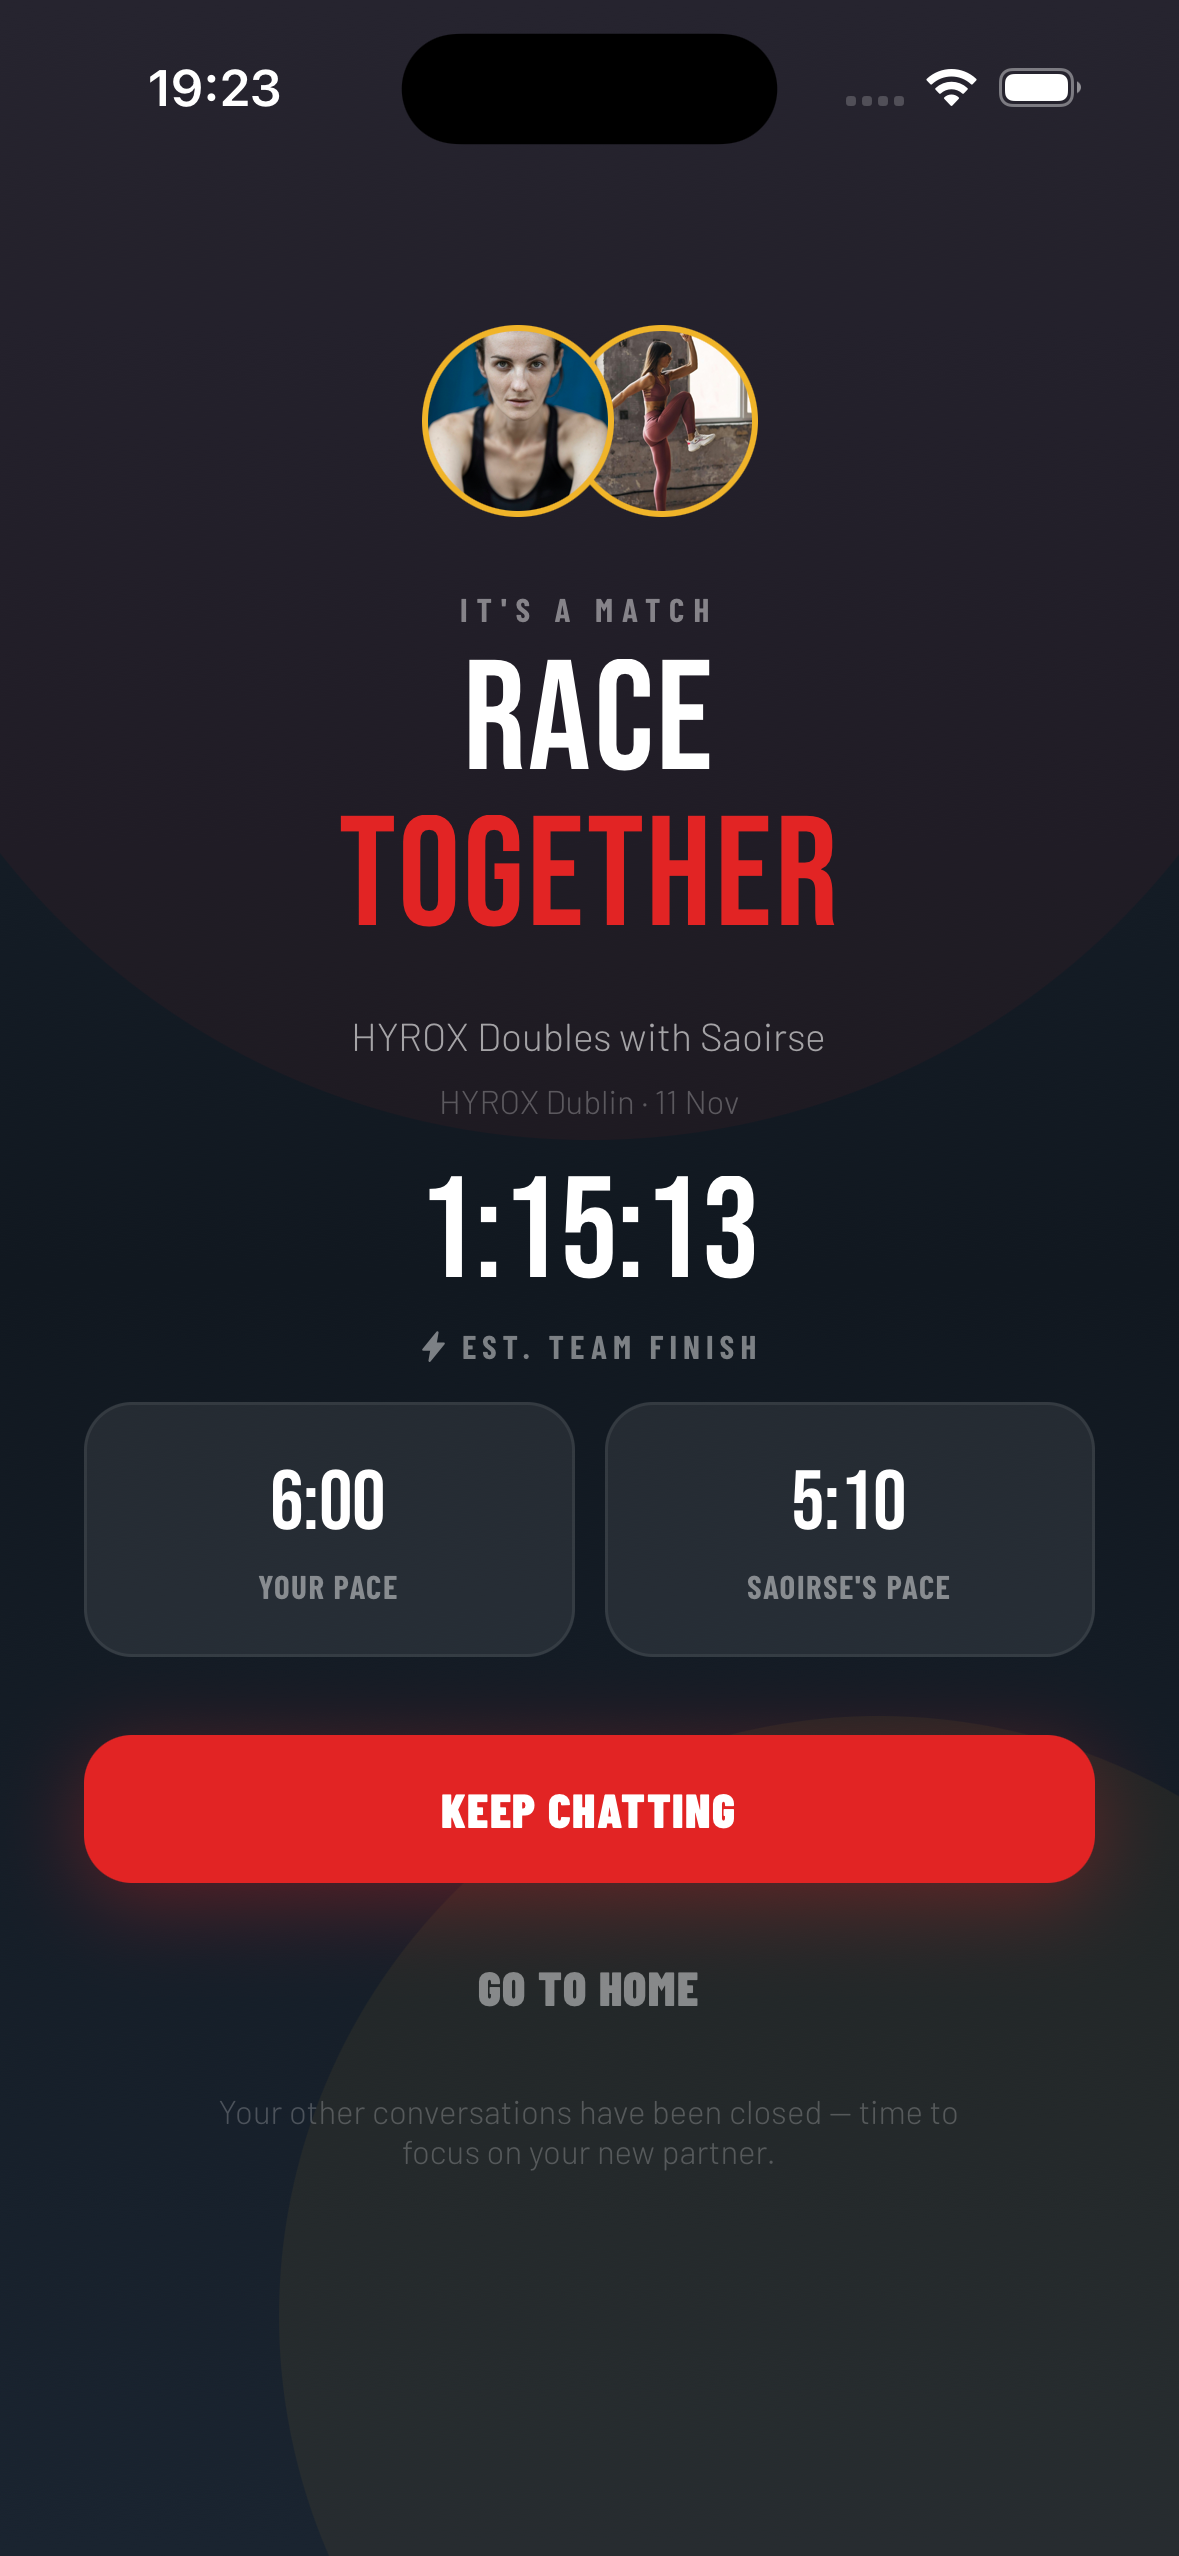
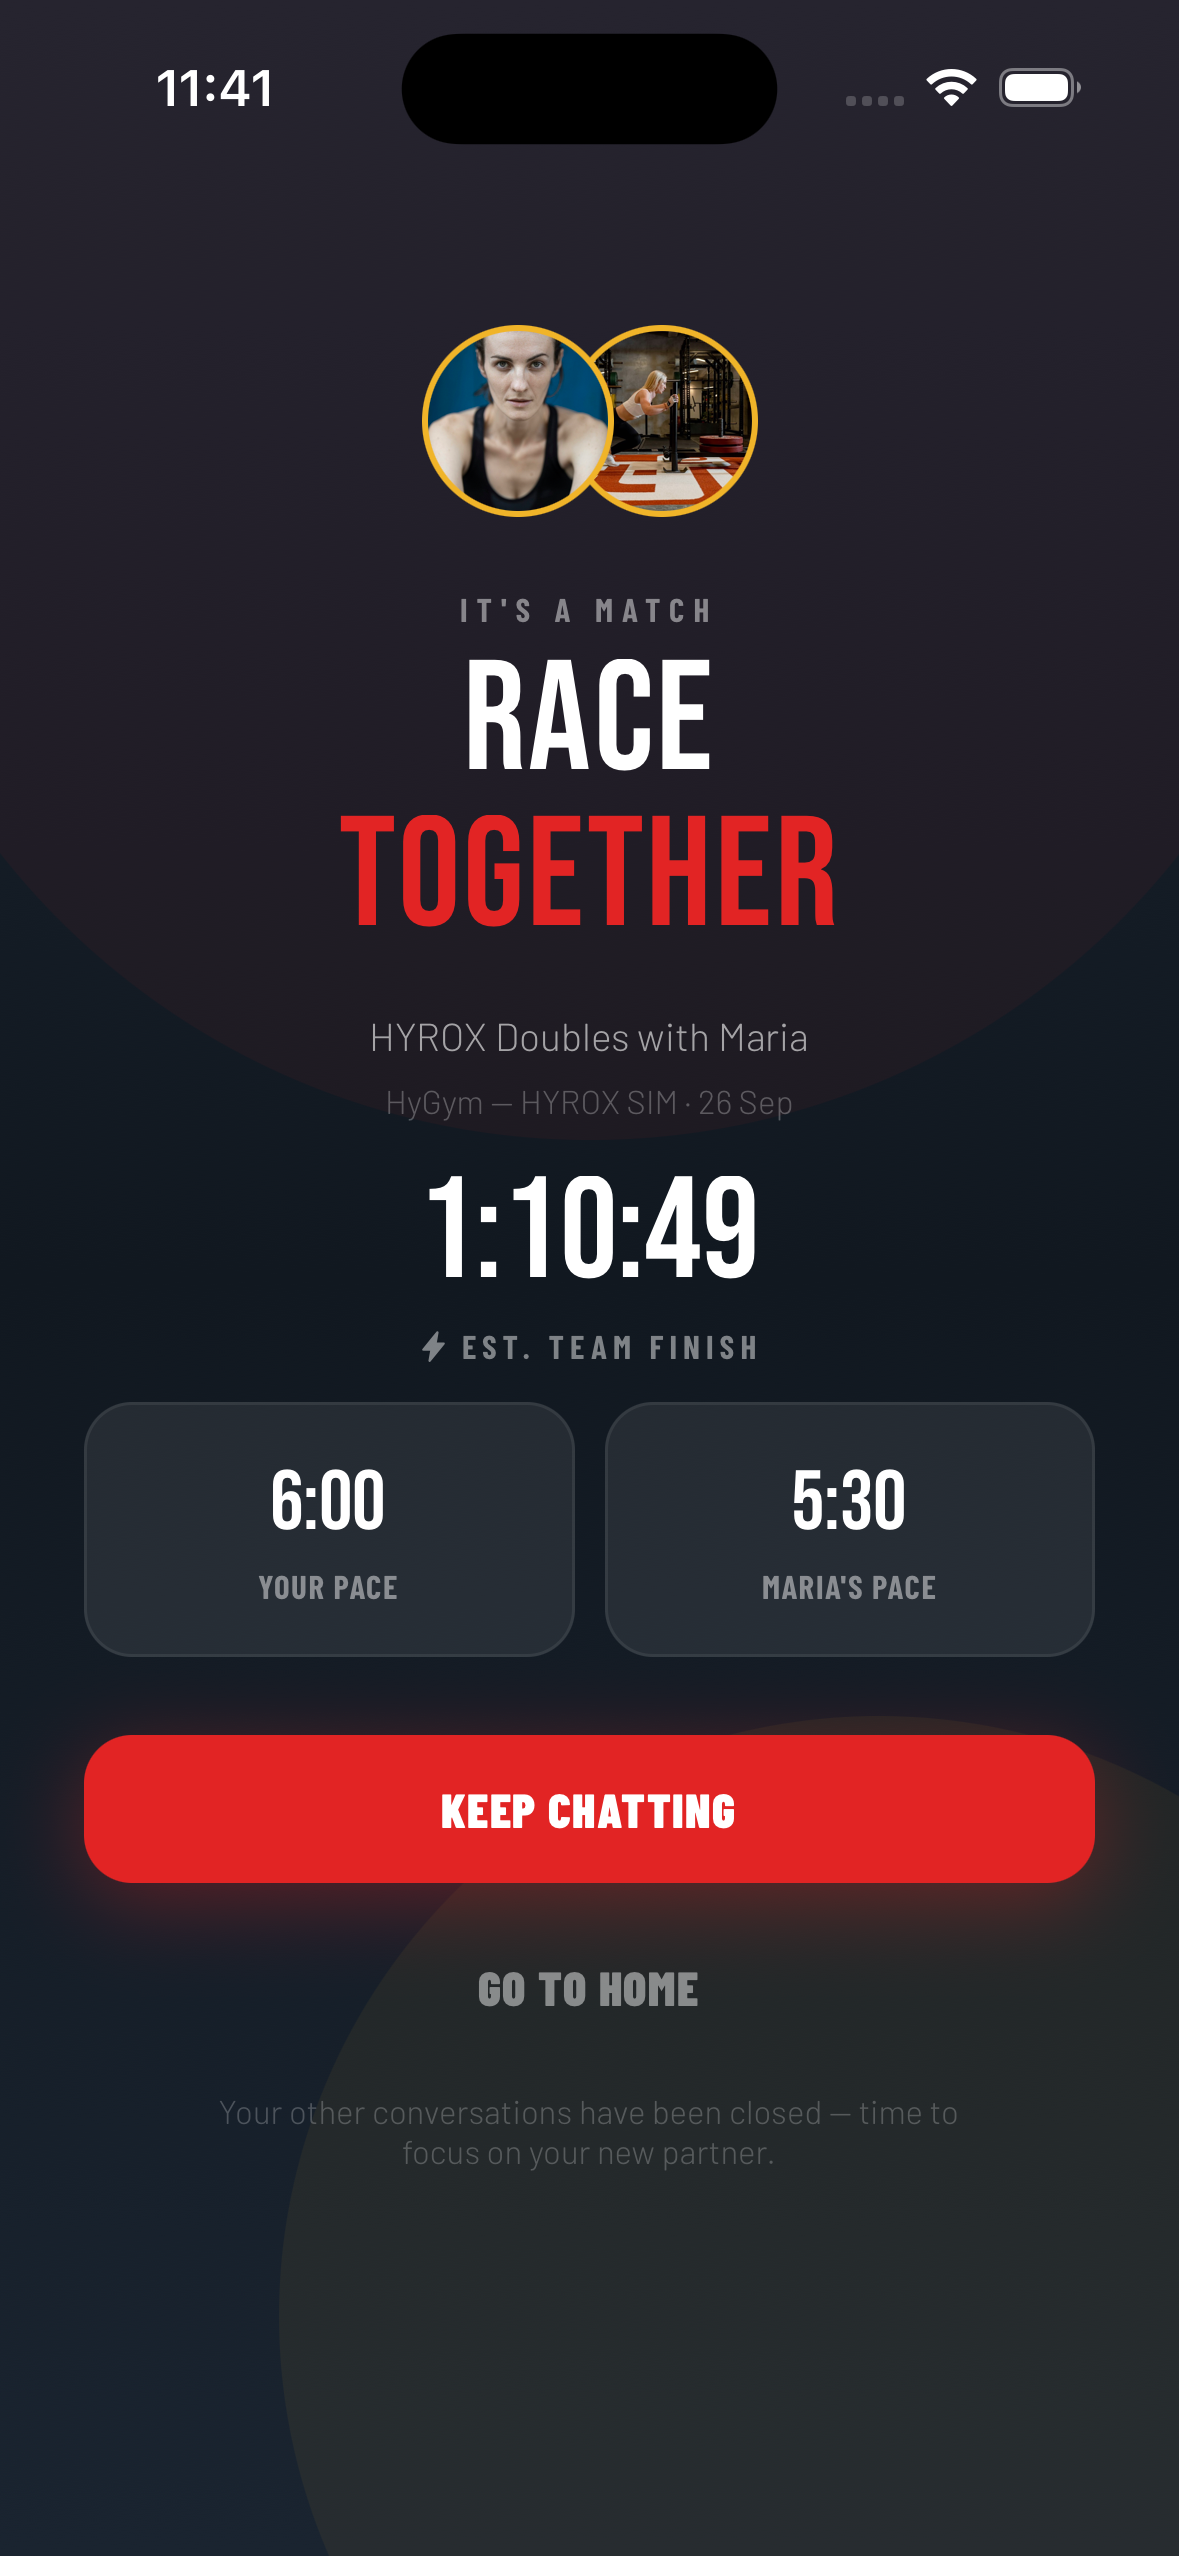
Fix founding-gym-outreach email: dedupe copy, add store badges, refresh screenshots
- Trimmed the repeated "ask" (feedback ask, CTA, and a closing call offer)
  down to one clean ask; dropped the "already live on both stores" line
  since the new badges show that visually instead.
- Added real App Store/Google Play badges with URLs matching index.html.
- Pointed the middle screenshot at find-partner.png (matching what
  index.html itself uses for "find a partner") instead of compat-card.png,
  which is a different, correctly-purposed match-score card asset used
  elsewhere on the site — not a duplicate.
- Replaced celebration.png with a real "IT'S A MATCH" screenshot.

diff --git a/brand/email/founding-gym-outreach.html b/brand/email/founding-gym-outreach.html
@@ -1,0 +1,67 @@
+<!DOCTYPE html>
+<html lang="en">
+<head>
+<meta charset="UTF-8">
+<meta name="viewport" content="width=device-width, initial-scale=1.0">
+<title>HyPair — founding gym outreach</title>
+</head>
+<body style="margin:0; padding:0; background:#F2F2EF; font-family:'Helvetica Neue', Arial, sans-serif;">
+<table role="presentation" width="100%" cellpadding="0" cellspacing="0" style="background:#F2F2EF; padding:32px 0;">
+<tr><td align="center">
+<table role="presentation" width="600" cellpadding="0" cellspacing="0" style="width:600px; max-width:600px; background:#ffffff; border-radius:12px; overflow:hidden;">
+
+<tr><td style="background:#0F1318; padding:28px 40px;">
+<span style="font-family:Georgia, 'Times New Roman', serif; font-weight:700; font-size:22px; letter-spacing:0.5px; color:#F2D079;">HyPair</span>
+</td></tr>
+
+<tr><td style="padding:36px 40px 8px;">
+<p style="margin:0 0 20px; font-size:15px; line-height:1.7; color:#334155;">Hi there,</p>
+<p style="margin:0 0 16px; font-size:15px; line-height:1.7; color:#334155;">I'm Ante — I built HyPair, an app for finding a doubles partner for HYROX and Tryka based on pace and goal, instead of just asking around the gym.</p>
+<p style="margin:0 0 16px; font-size:15px; line-height:1.7; color:#334155;">Reason I'm emailing: you run sim sessions at [Gym Name], and I'd guess a fair few people who'd love to do one never sign up, purely because they don't have anyone to go with. That's basically the exact problem we built this to fix.</p>
+</td></tr>
+
+<tr><td style="padding:8px 40px 28px;">
+<table role="presentation" width="100%" cellpadding="0" cellspacing="0"><tr>
+<td width="33%" style="padding-right:8px;" align="center">
+<img src="https://hypair.app/assets/screenshots/events.png" width="150" alt="Browse sim events" style="display:block; width:100%; max-width:150px; border-radius:10px; border:1px solid #E2E8F0;">
+<p style="margin:8px 0 0; font-size:12px; color:#64748B; line-height:1.4;">Browse sim events near them</p>
+</td>
+<td width="33%" style="padding:0 4px;" align="center">
+<img src="https://hypair.app/assets/screenshots/find-partner.png" width="150" alt="Find a partner by pace and goal" style="display:block; width:100%; max-width:150px; border-radius:10px; border:1px solid #E2E8F0;">
+<p style="margin:8px 0 0; font-size:12px; color:#64748B; line-height:1.4;">Find a partner by pace and goal</p>
+</td>
+<td width="33%" style="padding-left:8px;" align="center">
+<img src="https://hypair.app/assets/screenshots/celebration.png" width="150" alt="Match confirmed" style="display:block; width:100%; max-width:150px; border-radius:10px; border:1px solid #E2E8F0;">
+<p style="margin:8px 0 0; font-size:12px; color:#64748B; line-height:1.4;">Confirm and get racing</p>
+</td>
+</tr></table>
+</td></tr>
+
+<tr><td style="padding:0 40px 8px;">
+<p style="margin:0 0 16px; font-size:15px; line-height:1.7; color:#334155;">I'm looking to work with a handful of gyms directly — free, forever, no catch — in exchange for you actually using it with your members and telling me straight what works and what doesn't.</p>
+<p style="margin:0 0 16px; font-size:15px; line-height:1.7; color:#334155;">Getting set up is easy: download the app, sign up like anyone else would, then just hit reply with the email you signed up with. I'll switch on gym access for you, and from there you can list your own sessions and see who's signed up — that's it, no back and forth after that.</p>
+</td></tr>
+
+<tr><td style="padding:0 40px 24px;" align="center">
+<a href="https://apps.apple.com/ie/app/hypair-race-partner-finder/id6797554752" style="display:inline-block; margin:0 6px;"><img src="https://hypair.app/assets/badges/apple-app-store-badge-black.svg" width="140" alt="Download on the App Store" style="display:block; width:140px;"></a>
+<a href="https://play.google.com/store/apps/details?id=app.hypair.mobile" style="display:inline-block; margin:0 6px;"><img src="https://hypair.app/assets/badges/google-play-badge-black.png" width="140" alt="Get it on Google Play" style="display:block; width:140px;"></a>
+</td></tr>
+
+<tr><td style="padding:0 40px 8px;">
+<p style="margin:0 0 28px; font-size:15px; line-height:1.7; color:#334155;">One small ask, no pressure either way: if it ends up genuinely useful for you and your members, I'd love the option to mention [Gym Name] as one of the gyms using HyPair — only with your OK, and only if you actually want to.</p>
+</td></tr>
+
+<tr><td style="padding:0 40px 40px;">
+<a href="mailto:ante@hypair.app?subject=Founding%20gym%20-%20interested" style="display:inline-block; background:#E22424; color:#ffffff; font-weight:700; font-size:14px; letter-spacing:0.5px; text-decoration:none; padding:14px 28px; border-radius:10px;">Reply and I'll get you set up</a>
+<p style="margin:20px 0 0; font-size:15px; color:#0F1117;">Ante</p>
+</td></tr>
+
+<tr><td style="background:#F2F2EF; padding:20px 40px; text-align:center;">
+<p style="margin:0; font-size:12px; color:#94A3B8;">HyPair — find your HYROX and Tryka doubles partner. <a href="https://hypair.app" style="color:#94A3B8; text-decoration:underline;">hypair.app</a></p>
+</td></tr>
+
+</table>
+</td></tr>
+</table>
+</body>
+</html>
